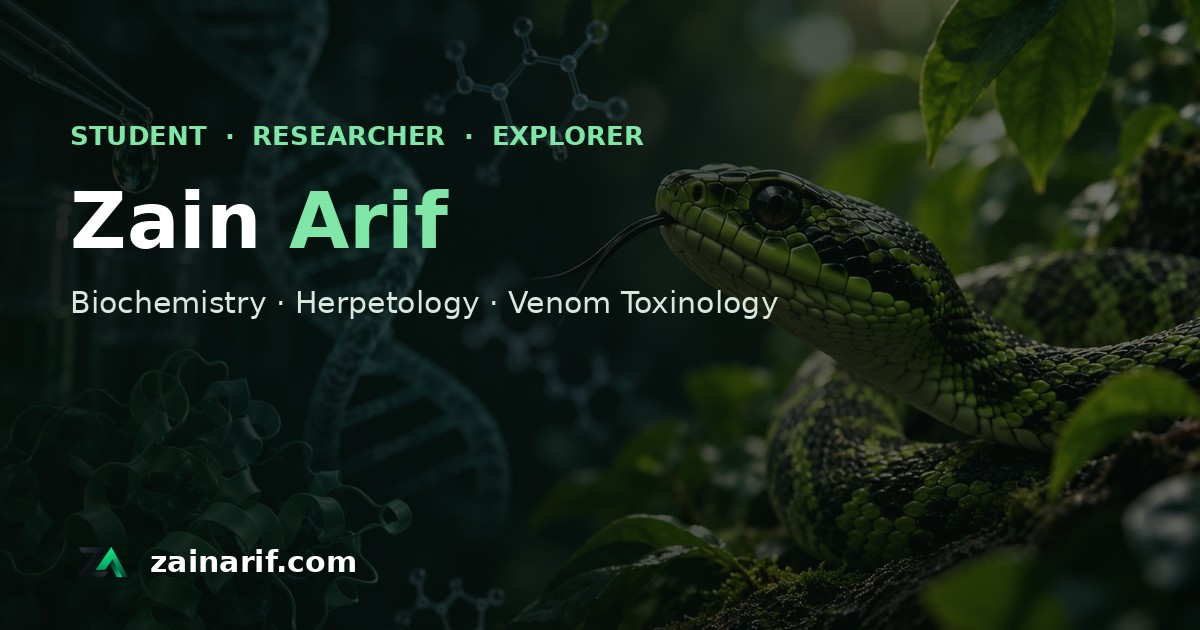
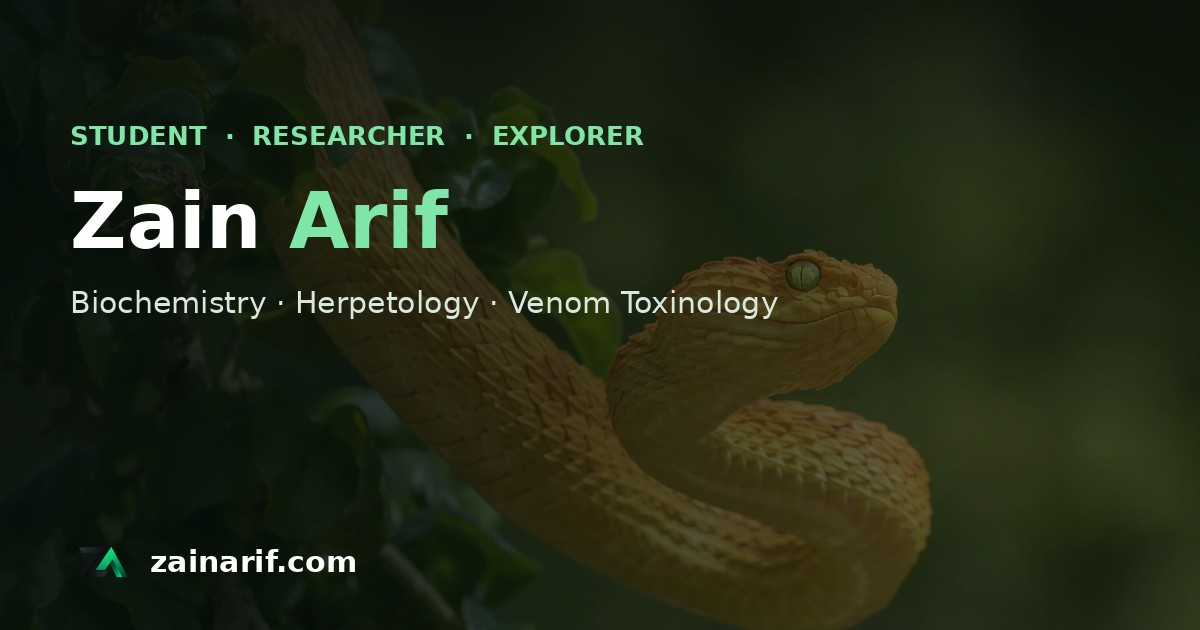
Replace hero/card snake photo with user-supplied image
Swap the snake photo used in the hero banner and the "Herpetology &
Venom Toxinology" Research card for the new photo supplied by the
user, re-cropping the card to frame its head/eye and re-tuning the
hero's object-position to match this photo's head position. Also
regenerate the Open Graph/Twitter share image (og-cover.jpg) from the
new hero photo so social previews stay in sync.

Claude-Session: https://claude.ai/code/session_0167RpCqekewj4JNUfhiWB7w

diff --git a/index.html b/index.html
@@ -35,7 +35,7 @@
 <link rel="preconnect" href="https://fonts.googleapis.com">
 <link rel="preconnect" href="https://fonts.gstatic.com" crossorigin>
 <link href="https://fonts.googleapis.com/css2?family=Poppins:wght@400;500;600;700&family=Caveat:wght@600&family=JetBrains+Mono:wght@400;500&display=swap" rel="stylesheet">
-<link rel="stylesheet" href="css/style.css?v=10">
+<link rel="stylesheet" href="css/style.css?v=11">
 <script type="application/ld+json">
 {
   "@context": "https://schema.org",
@@ -396,6 +396,6 @@
   </div>
 </footer>
 
-<script src="js/script.js?v=10"></script>
+<script src="js/script.js?v=11"></script>
 </body>
 </html>

diff --git a/css/style.css b/css/style.css
@@ -199,7 +199,7 @@ img { max-width: 100%; display: block; }
   width: 100%;
   height: 100%;
   object-fit: cover;
-  object-position: 64% 40%;
+  object-position: 66% 44%;
 }
 .hero-banner-overlay {
   position: absolute;
@@ -268,7 +268,7 @@ img { max-width: 100%; display: block; }
 
 @media (max-width: 760px) {
   .hero-banner { min-height: 560px; }
-  .hero-banner img { object-position: 65% 35%; }
+  .hero-banner img { object-position: 72% 40%; }
   .hero-banner-overlay {
     background: linear-gradient(180deg, rgba(6,14,10,.4) 0%, rgba(6,14,10,.6) 45%, rgba(5,12,9,.94) 100%);
   }
